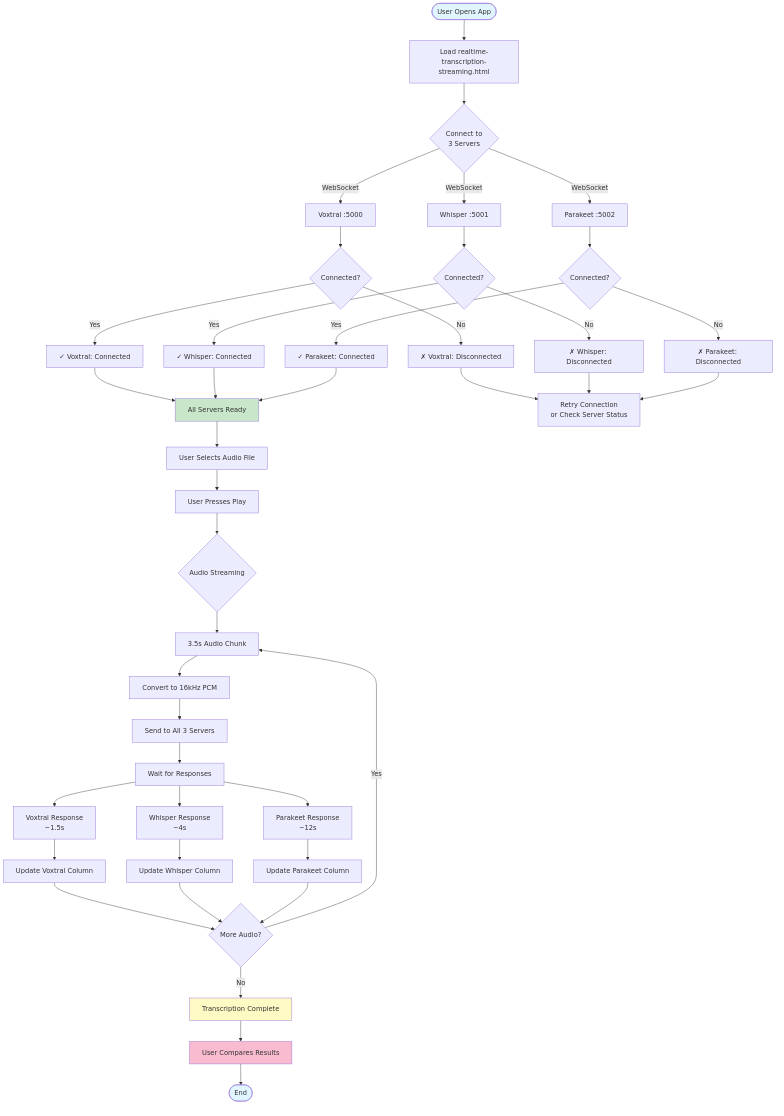
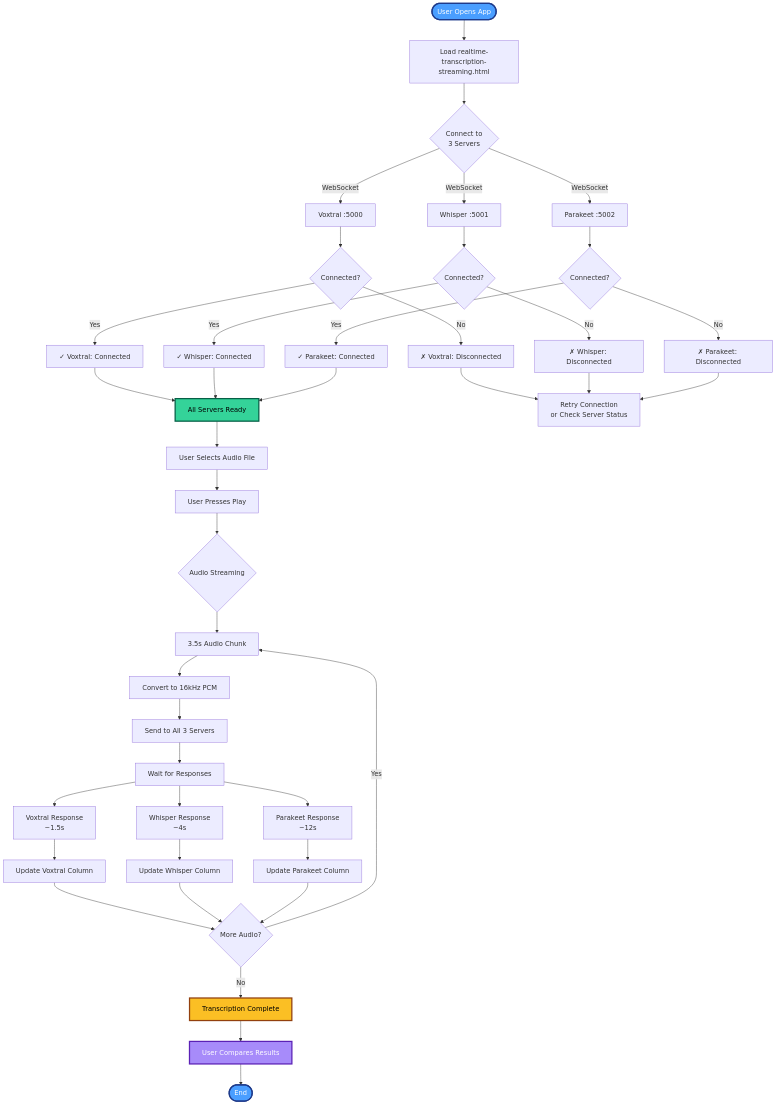
dark mode friednly diagramms

Changed region(s): [[0.2449, 0.8835, 0.398, 1.0], [0.2143, 0.3351, 0.3367, 0.3961], [0.551, 0.0, 0.6429, 0.0305]]

diff --git a/README.md b/README.md
@@ -91,11 +91,11 @@ graph TB
     Whisper -.->|First Run| HuggingFace
     Parakeet -.->|First Run| HuggingFace
 
-    style Browser fill:#e1f5ff
-    style Voxtral fill:#fff4e1
-    style Whisper fill:#e8f5e9
-    style Parakeet fill:#f3e5f5
-    style MistralAPI fill:#ffe0b2
+    style Browser fill:#4a9eff,stroke:#1e3a8a,stroke-width:3px,color:#fff
+    style Voxtral fill:#fbbf24,stroke:#92400e,stroke-width:3px,color:#000
+    style Whisper fill:#34d399,stroke:#065f46,stroke-width:3px,color:#000
+    style Parakeet fill:#a78bfa,stroke:#5b21b6,stroke-width:3px,color:#fff
+    style MistralAPI fill:#fb923c,stroke:#9a3412,stroke-width:3px,color:#000
 ```
 
 ### Data Flow
@@ -177,11 +177,11 @@ graph TB
     WhisperContainer -.->|Model Cache| Cache
     ParakeetContainer -.->|Model Cache| Cache
 
-    style WebContainer fill:#e3f2fd
-    style VoxtralContainer fill:#fff9c4
-    style WhisperContainer fill:#c8e6c9
-    style ParakeetContainer fill:#f8bbd0
-    style GPU fill:#ffccbc
+    style WebContainer fill:#4a9eff,stroke:#1e3a8a,stroke-width:3px,color:#fff
+    style VoxtralContainer fill:#fbbf24,stroke:#92400e,stroke-width:3px,color:#000
+    style WhisperContainer fill:#34d399,stroke:#065f46,stroke-width:3px,color:#000
+    style ParakeetContainer fill:#a78bfa,stroke:#5b21b6,stroke-width:3px,color:#fff
+    style GPU fill:#f87171,stroke:#991b1b,stroke-width:3px,color:#fff
 ```
 
 ## 🎬 The Demo
@@ -248,11 +248,11 @@ flowchart TD
 
     Error1 & Error2 & Error3 --> Retry[Retry Connection<br/>or Check Server Status]
 
-    style Start fill:#e1f5ff
-    style AllReady fill:#c8e6c9
-    style Complete fill:#fff9c4
-    style Compare fill:#f8bbd0
-    style End fill:#e1f5ff
+    style Start fill:#4a9eff,stroke:#1e3a8a,stroke-width:3px,color:#fff
+    style AllReady fill:#34d399,stroke:#065f46,stroke-width:3px,color:#000
+    style Complete fill:#fbbf24,stroke:#92400e,stroke-width:3px,color:#000
+    style Compare fill:#a78bfa,stroke:#5b21b6,stroke-width:3px,color:#fff
+    style End fill:#4a9eff,stroke:#1e3a8a,stroke-width:3px,color:#fff
 ```
 
 ### Comparison Mode Flow
@@ -300,10 +300,10 @@ flowchart TD
     Error --> Troubleshoot[Check Server Logs]
     Troubleshoot --> Restart[Restart Servers]
 
-    style Start fill:#e1f5ff
-    style AllDone fill:#c8e6c9
-    style Decision fill:#fff9c4
-    style End fill:#e1f5ff
+    style Start fill:#4a9eff,stroke:#1e3a8a,stroke-width:3px,color:#fff
+    style AllDone fill:#34d399,stroke:#065f46,stroke-width:3px,color:#000
+    style Decision fill:#fbbf24,stroke:#92400e,stroke-width:3px,color:#000
+    style End fill:#4a9eff,stroke:#1e3a8a,stroke-width:3px,color:#fff
 ```
 
 ### Integration Workflow (FFmpeg/WebRTC)
@@ -358,14 +358,14 @@ flowchart LR
     WS3 --> Live
     WS3 --> DataChannel
 
-    style Video fill:#e3f2fd
-    style FFmpeg fill:#fff9c4
-    style AudioProc fill:#c8e6c9
-    style WS1 fill:#fff4e1
-    style WS2 fill:#e8f5e9
-    style WS3 fill:#f3e5f5
-    style SRT fill:#ffccbc
-    style Live fill:#ffccbc
+    style Video fill:#4a9eff,stroke:#1e3a8a,stroke-width:3px,color:#fff
+    style FFmpeg fill:#fbbf24,stroke:#92400e,stroke-width:3px,color:#000
+    style AudioProc fill:#34d399,stroke:#065f46,stroke-width:3px,color:#000
+    style WS1 fill:#fb923c,stroke:#9a3412,stroke-width:3px,color:#000
+    style WS2 fill:#34d399,stroke:#065f46,stroke-width:3px,color:#000
+    style WS3 fill:#a78bfa,stroke:#5b21b6,stroke-width:3px,color:#fff
+    style SRT fill:#f87171,stroke:#991b1b,stroke-width:3px,color:#fff
+    style Live fill:#f87171,stroke:#991b1b,stroke-width:3px,color:#fff
 ```
 
 ## 🛠 Prerequisites
